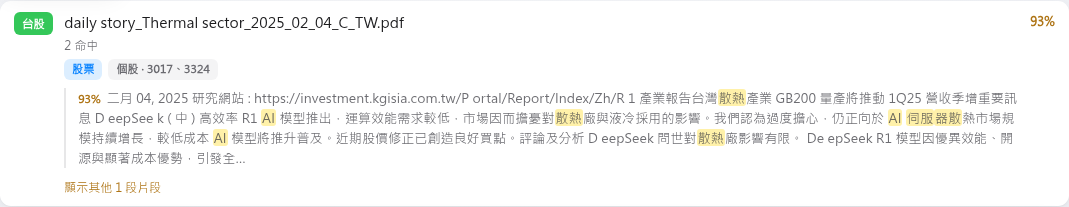
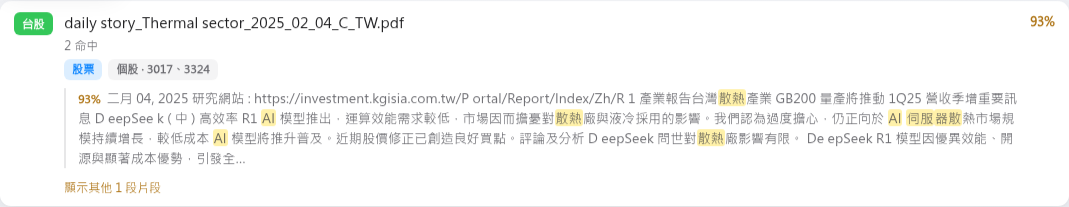
docs: help 圖加數字標註、新增問答截圖，並複查各段對齊現況
- §6「看懂一筆結果」：anatomy 圖（搜尋列）重新加上 1–7 數字 pin 標註，
  位置依實機量測各部位（徽章/檔名/來源·命中/商品類型/標的/命中片段/相關度），
  .annot 放寬至滿欄以容納寬列圖
- §4「問答模式」：新增 05-ask.png 截圖（歷史側欄＋帶引用串流回答＋輸入框）
- 複查全段並修正：§7 圖說去除舊鈕名「查看完整報告」；§8 監控管線
  由「三條（網頁/導入/標註）」更正為「四條（＋摘要）」、補摘要進度
- card-anatomy.png 重截為與量測一致的搜尋列（含黃底高亮片段）

截圖皆為登入實機、現況金色品牌 UI。

diff --git a/web/static/help.html b/web/static/help.html
@@ -86,7 +86,7 @@
     border-radius: 6px; color: var(--label-2); background: var(--fill); white-space: nowrap; }
 
   /* 標註圖（數字 pin + 圖例） */
-  .annot { position: relative; display: block; max-width: 600px; margin: 14px auto 6px; }
+  .annot { position: relative; display: block; max-width: 100%; margin: 14px auto 6px; }
   .annot img { width: 100%; display: block; border-radius: 12px;
     border: .5px solid var(--sep); box-shadow: var(--shadow); }
   .pin { position: absolute; transform: translate(-50%, -50%); width: 22px; height: 22px;
@@ -177,6 +177,10 @@
     <section id="ask">
       <h2><span class="no">4</span>問答模式（向 AI 提問）</h2>
       <p>左側上方有<strong>「檢索／問答」切換</strong>。切到<strong>問答</strong>後，可用自然語言提問，系統會檢索相關研報、由 AI 整理出帶<strong>引用來源</strong>的回答：</p>
+      <figure>
+        <img src="/static/help/05-ask.png" alt="問答模式畫面" />
+        <figcaption>問答模式：左側為歷史問答，主區為帶引用來源的串流回答，下方為提問輸入框</figcaption>
+      </figure>
       <ul class="bul">
         <li>在下方輸入框打字、按 <strong>Enter</strong> 送出，回答會逐字串流出現。</li>
         <li>回答下方可展開<strong>「資料來源」</strong>，點任一來源即可開啟原始報告。</li>
@@ -216,10 +220,16 @@
 
     <section id="result">
       <h2><span class="no">6</span>看懂一筆結果</h2>
-      <p>每一筆結果都會顯示以下資訊（下圖為<strong>搜尋結果</strong>的一筆，列表檢視；表格為相同資訊的欄位排版）：</p>
-      <figure>
-        <img src="/static/help/card-anatomy.png" alt="搜尋結果一筆（含命中片段）的各部位" />
-        <figcaption>搜尋結果的一筆（列表）：市場徽章、檔名、來源／命中數、標籤、命中片段（黃底高亮）與相似度 %</figcaption>
+      <p>下圖為一筆<strong>搜尋結果</strong>（列表檢視），圖上數字對照下方說明（表格檢視為相同資訊的欄位排版）：</p>
+      <figure class="annot">
+        <img src="/static/help/card-anatomy.png" alt="搜尋結果一筆（含命中片段）的各部位標註" />
+        <span class="pin" style="top:12%;left:4%">1</span>
+        <span class="pin" style="top:12%;left:20%">2</span>
+        <span class="pin" style="top:24%;left:6%">3</span>
+        <span class="pin" style="top:35%;left:8%">4</span>
+        <span class="pin" style="top:35%;left:19%">5</span>
+        <span class="pin" style="top:60%;left:42%">6</span>
+        <span class="pin" style="top:11%;left:97%">7</span>
       </figure>
       <ol class="annot-legend">
         <li><span class="n">1</span><span><b>市場徽章</b>：報告涵蓋的主要市場（彩色，本例「台股」）；完整 9 種見下方。</span></li>
@@ -282,7 +292,7 @@
       </ul>
       <figure>
         <img src="/static/help/03-fullreport.png" alt="查看完整報告 modal" />
-        <figcaption>「查看完整報告」會內嵌原始券商 PDF，直接在頁面上閱讀</figcaption>
+        <figcaption>點任一筆結果，會內嵌原始券商 PDF，直接在頁面上閱讀</figcaption>
       </figure>
     </section>
 
@@ -290,8 +300,8 @@
       <h2><span class="no">8</span>導入監控頁（進階）</h2>
       <p><strong>「導入監控」</strong>按鈕主要給<strong>管理者</strong>查看資料導入狀況（一般使用者用不到）：</p>
       <ul class="bul">
-        <li><strong>已導入報告數、總片段、標註進度</strong>等即時數字。</li>
-        <li><strong>市場分佈</strong>長條圖，與<strong>三條背景管線</strong>（網頁／導入／標註）是否執行中。</li>
+        <li><strong>已導入報告數、總片段、標註進度、摘要進度</strong>等即時數字。</li>
+        <li><strong>市場分佈</strong>長條圖，與<strong>四條背景管線</strong>（網頁／導入／標註／摘要）是否執行中。</li>
         <li>每 2 秒自動刷新，數字會持續跳動。</li>
       </ul>
       <div class="note">畫面上的「<b>—</b>」代表<b>資料載入中或暫無數值</b>，連上後會自動帶入。</div>
